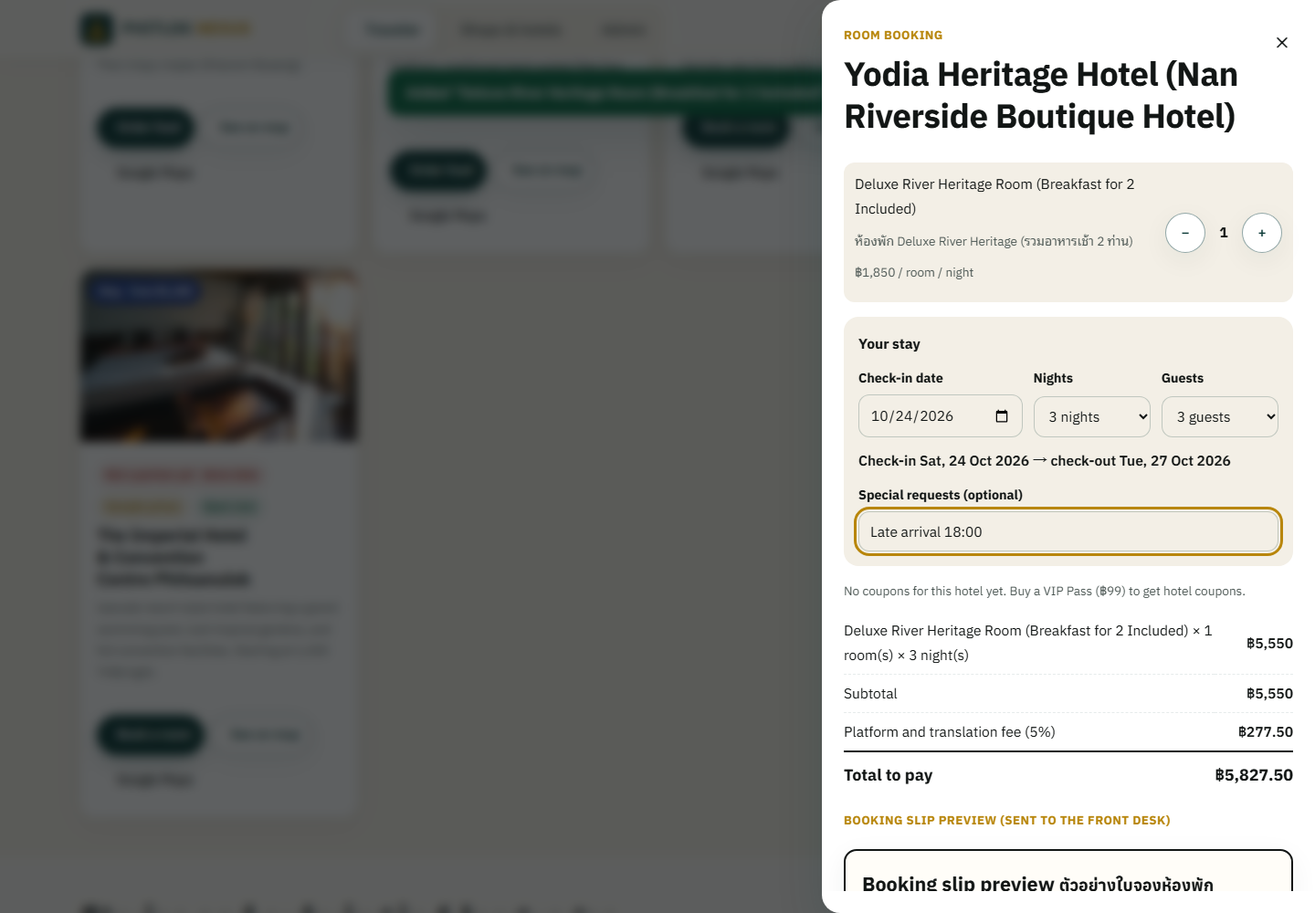
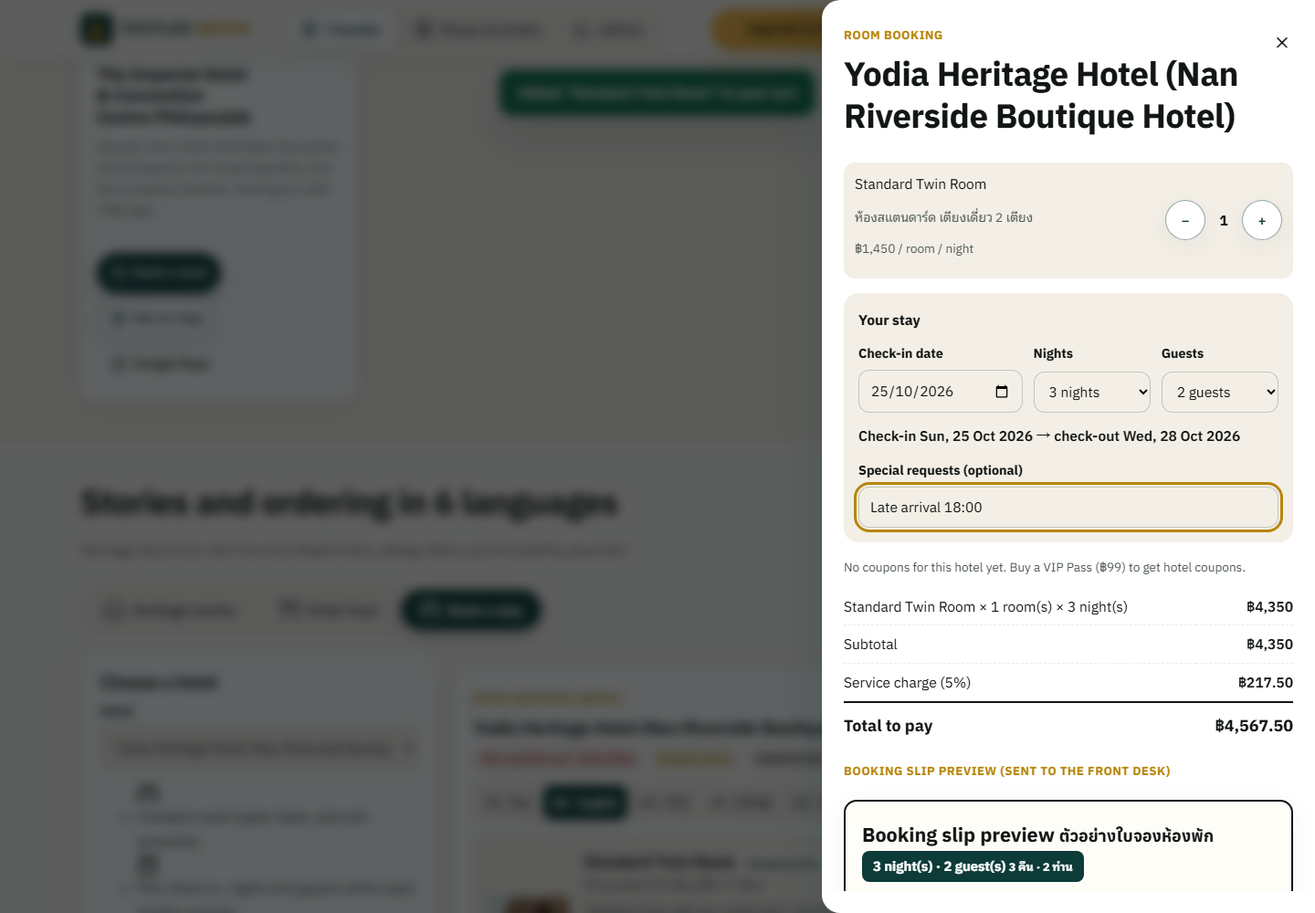
แยกแท็บ "สั่งอาหาร" กับ "จองที่พัก" ออกจากกันจริง
- ส่วน AI Lens มี 3 แท็บ: ฟังเรื่องเล่า / สั่งอาหาร / จองที่พัก
- แท็บสั่งอาหาร: รายการมีเฉพาะร้านอาหารและร้านของฝาก (สแกนเมนูได้เฉพาะร้าน)
- แท็บจองที่พัก: รายการมีเฉพาะโรงแรม ห้องเรียงจากถูกไปแพง กล่องผลลัพธ์แยก (#stay-result)
- เปิดจากแผนที่/รายการสถานที่: ร้านไปแท็บอาหาร โรงแรมไปแท็บที่พักเสมอ · ลิงก์ /app#lens-stay
- เทสต์ e2e และ i18n-e2e ชี้ห้องพักไปที่ #stay-result และใช้จำนวนผู้เข้าพักตามความจุห้อง

npm test 13/13, qa:e2e 31/31, i18n-e2e 18/18

diff --git a/public/js/i18n.js b/public/js/i18n.js
@@ -168,6 +168,14 @@ const K = {
   'room.a.balcony': ['ระเบียง', 'Balcony', '阳台', 'バルコニー', '발코니', 'Balcon'],
   'room.a.living': ['ห้องนั่งเล่นแยก', 'Separate living area', '独立客厅', 'リビング付き', '별도 거실', 'Salon séparé'],
   'room.a.minibar': ['มินิบาร์', 'Minibar', '迷你吧', 'ミニバー', '미니바', 'Minibar'],
+  'lens.tabC': ['จองที่พัก', 'Book a stay', '预订住宿', '宿を予約', '숙소 예약', 'Réserver un hôtel'],
+  'stay.pick': ['เลือกโรงแรมหรือที่พัก', 'Choose a hotel', '选择酒店', 'ホテルを選ぶ', '호텔 선택', 'Choisir un hôtel'],
+  'stay.selectLabel': ['โรงแรม / ที่พัก', 'Hotel', '酒店', 'ホテル', '호텔', 'Hôtel'],
+  'stay.p1': ['ดูประเภทห้อง เตียง ขนาด และสิ่งอำนวยความสะดวกของแต่ละห้อง', 'Compare room types: beds, size and amenities', '比较房型：床型、面积与设施', '客室タイプ、ベッド、広さ、設備を比べる', '객실 유형, 침대, 크기, 편의시설 비교', 'Comparez les chambres : lits, surface, équipements'],
+  'stay.p2': ['เลือกวันเช็คอิน จำนวนคืน และผู้เข้าพักตามความจุจริงของห้อง', 'Pick check-in, nights and guests within each room’s capacity', '选择入住日期、晚数及符合房间容量的人数', 'チェックイン日・泊数・人数（客室の定員内）を選ぶ', '체크인 날짜, 박수, 인원(객실 정원 내) 선택', 'Choisissez l’arrivée, les nuits et le nombre de personnes'],
+  'stay.p3': ['จ่ายด้วยพร้อมเพย์ แล้วรับใบจองสองภาษา (BK-)', 'Pay by PromptPay and get a two-language booking slip (BK-)', '用 PromptPay 支付，获得双语预订单（BK-）', 'PromptPayで支払い、2言語の予約票（BK-）を受け取る', 'PromptPay로 결제하고 2개 언어 예약증(BK-) 받기', 'Payez par PromptPay et recevez un bon bilingue (BK-)'],
+  'stay.emptyTitle': ['ห้องพักของโรงแรมที่เลือกจะแสดงที่นี่', 'Rooms of the chosen hotel appear here', '所选酒店的房型将显示在这里', '選んだホテルの客室がここに表示されます', '선택한 호텔의 객실이 여기에 표시됩니다', 'Les chambres de l’hôtel choisi s’affichent ici'],
+  'stay.emptyText': ['เลือกโรงแรมจากรายการด้านซ้าย', 'Choose a hotel from the list', '请从列表中选择酒店', 'リストからホテルを選んでください', '목록에서 호텔을 선택하세요', 'Choisissez un hôtel dans la liste'],
   'map.viewAria': ['เลือกมุมมองแผนที่', 'Map view', '地图视图', '地図の表示', '지도 보기', 'Vue de la carte'],
   'map.viewProvince': ['ทั้งจังหวัด', 'Province', '全府', '県全体', '주 전체', 'Province'],
   'map.viewCity': ['ตัวเมือง', 'City', '市区', '市街地', '시내', 'Ville'],
@@ -218,12 +226,12 @@ const K = {
   'dir.book': ['จองห้องพัก', 'Book a room', '预订客房', '客室を予約', '객실 예약', 'Réserver'],
 
   // ---------- lens (heritage + menu)
-  'lens.title': ['ฟังเรื่องเล่าและสั่งอาหาร 6 ภาษา', 'Stories and ordering in 6 languages', '6 种语言的讲解与点餐', '6言語の歴史ガイドと注文', '6개 언어 이야기와 주문', 'Récits et commandes en 6 langues'],
+  'lens.title': ['ฟังเรื่องเล่า สั่งอาหาร และจองที่พัก 6 ภาษา', 'Stories, food and stays in 6 languages', '6 种语言的讲解、点餐与住宿', '6言語で歴史ガイド・注文・宿予約', '6개 언어 이야기·주문·숙소 예약', 'Récits, repas et hôtels en 6 langues'],
   'lens.lead': ['ข้อมูลโบราณสถานจากกรมศิลปากร กรองอาหารที่แพ้ และจ่ายด้วยพร้อมเพย์', 'Heritage facts from the Fine Arts Department, allergy filters and PromptPay payment', '泰国艺术厅的古迹资料、过敏原筛选与 PromptPay 支付', 'タイ芸術局の史跡情報、アレルギー絞り込み、PromptPay決済', '태국 예술청 유적 정보, 알레르기 필터, PromptPay 결제', 'Patrimoine officiel, filtres allergènes et paiement PromptPay'],
   'lens.ai': ['AI ช่วยอ่านป้ายและเมนู', 'AI reads signs and menus', 'AI 读取牌匾与菜单', 'AIが看板とメニューを読み取り', 'AI가 안내판과 메뉴를 읽음', 'L’IA lit panneaux et menus'],
   'lens.tabs': ['โหมดการใช้งาน', 'Modes', '模式', 'モード', '모드', 'Modes'],
   'lens.tabA': ['ฟังเรื่องเล่าโบราณสถาน', 'Heritage stories', '古迹讲解', '史跡の音声ガイド', '유적 이야기', 'Récits du patrimoine'],
-  'lens.tabB': ['สั่งอาหารและจองที่พัก', 'Food & stays', '点餐与住宿', '料理と宿', '음식과 숙소', 'Repas et hébergement'],
+  'lens.tabB': ['สั่งอาหาร', 'Order food', '点餐', '料理を注文', '음식 주문', 'Commander'],
   'lens.pick': ['เลือกโบราณสถาน', 'Choose a heritage site', '选择古迹', '史跡を選ぶ', '유적 선택', 'Choisir un site'],
   'preset.wat-yai': ['วัดพระศรีรัตนมหาธาตุวรมหาวิหาร (วัดใหญ่) · พ.ศ. 1900', 'Wat Phra Si Rattana Mahathat (Wat Yai) · 1357', '帕西拉达纳玛哈泰寺（大寺）· 1357 年', 'ワット・プラシーラッタナーマハータート（ワット・ヤイ）· 1357年', '왓 프라시랏따나마하탓 (왓 야이) · 1357년', 'Wat Phra Si Rattana Mahathat (Wat Yai) · 1357'],
   'preset.chan-palace': ['โบราณสถานพระราชวังจันทน์ (สมเด็จพระนเรศวรฯ)', 'Chan Palace ruins (King Naresuan)', '詹宫遗址（纳黎萱大帝）', 'チャン王宮跡（ナレースワン大王）', '짠 왕궁 유적 (나레쑤언 대왕)', 'Ruines du palais Chan (roi Naresuan)'],
@@ -241,12 +249,12 @@ const K = {
   'pipe.menu': ['สร้างเมนูดิจิทัล 6 ภาษา', 'Building the menu in 6 languages', '生成 6 种语言菜单', '6言語メニューを作成', '6개 언어 메뉴 만들기', 'Création du menu en 6 langues'],
   'lens.emptyTitle': ['เลือกโบราณสถานด้านซ้ายเพื่อฟังเรื่องเล่า', 'Choose a site on the left to hear its story', '在左侧选择古迹收听故事', '左の史跡を選んで物語を聞く', '왼쪽에서 유적을 골라 이야기를 들어 보세요', 'Choisissez un site à gauche pour l’écouter'],
   'lens.emptyText': ['ฟังได้ 6 ภาษา: ไทย อังกฤษ จีน ญี่ปุ่น เกาหลี ฝรั่งเศส · ส่องป้ายแล้วรับคูปองส่วนลด 15%', 'Listen in Thai, English, Chinese, Japanese, Korean or French · scan a sign to earn a 15% coupon', '可用泰、英、中、日、韩、法 6 种语言收听 · 扫描牌匾获得 85 折优惠券', 'タイ語・英語・中国語・日本語・韓国語・フランス語に対応 · 看板を読み取ると15%クーポン', '태국어·영어·중국어·일본어·한국어·프랑스어 지원 · 안내판을 스캔하면 15% 쿠폰', 'En thaï, anglais, chinois, japonais, coréen ou français · scannez un panneau pour un bon de 15 %'],
-  'menu.pick': ['เลือกร้านอาหารหรือที่พัก', 'Choose a restaurant or hotel', '选择餐厅或酒店', '飲食店かホテルを選ぶ', '식당 또는 호텔 선택', 'Choisir un restaurant ou un hôtel'],
+  'menu.pick': ['เลือกร้านอาหารหรือร้านของฝาก', 'Choose a restaurant or souvenir shop', '选择餐厅或特产店', '飲食店かお土産店を選ぶ', '식당 또는 기념품점 선택', 'Choisir un restaurant ou une boutique'],
   'menu.presetBtn': ['ลองดูเมนูร้านก๋วยเตี๋ยวห้อยขา', 'Try the Hoi Kha noodle menu', '试看垂腿船面的菜单', 'ホイカー麺のメニューを見る', '호이카 국수 메뉴 보기', 'Essayer le menu Hoi Kha'],
   'menu.or': ['หรือเลือกจากรายการ', 'or pick from the list', '或从列表中选择', 'またはリストから選ぶ', '또는 목록에서 선택', 'ou choisissez dans la liste'],
-  'menu.selectLabel': ['ร้านอาหารหรือโรงแรม', 'Restaurant or hotel', '餐厅或酒店', '飲食店またはホテル', '식당 또는 호텔', 'Restaurant ou hôtel'],
+  'menu.selectLabel': ['ร้านอาหาร / ร้านของฝาก', 'Restaurant / souvenir shop', '餐厅 / 特产店', '飲食店・お土産店', '식당 / 기념품점', 'Restaurant / boutique'],
   'menu.scan': ['สแกนเมนูกระดาษเพื่อแปล 6 ภาษา', 'Scan a paper menu to translate it', '扫描纸质菜单进行翻译', '紙のメニューを読み取って翻訳', '종이 메뉴를 스캔해 번역', 'Scanner un menu papier pour le traduire'],
-  'menu.emptyTitle': ['เมนู 6 ภาษาและการจองห้องพักจะแสดงที่นี่', 'The menu and room booking appear here', '菜单与订房信息将显示在这里', 'ここにメニューと客室予約が表示されます', '여기에 메뉴와 객실 예약이 표시됩니다', 'Le menu et la réservation s’affichent ici'],
+  'menu.emptyTitle': ['เมนู 6 ภาษาจะแสดงที่นี่', 'The 6-language menu appears here', '6 种语言的菜单将显示在这里', 'ここに6言語メニューが表示されます', '여기에 6개 언어 메뉴가 표시됩니다', 'Le menu en 6 langues s’affiche ici'],
   'menu.emptyText': ['กรองอาหารที่แพ้ จ่ายด้วยพร้อมเพย์ แล้วร้านได้รับใบสั่งภาษาไทยทันที', 'Filter allergens, pay with PromptPay, and the shop instantly gets a Thai order ticket', '筛选过敏原，用 PromptPay 支付，店家立即收到泰文订单', 'アレルギーを絞り込み、PromptPayで支払うと、お店にタイ語の注文票がすぐ届きます', '알레르기를 거르고 PromptPay로 결제하면 가게에 태국어 주문서가 바로 갑니다', 'Filtrez les allergènes, payez par PromptPay : le commerce reçoit aussitôt un ticket en thaï'],
 
   // ---------- lens results

diff --git a/public/js/lens.js b/public/js/lens.js
@@ -17,12 +17,15 @@ const ALLOWED = ['image/jpeg', 'image/png', 'image/webp'];
 
 let lastHeritage = null;
 let menuCtx = null;
+let stayCtx = null;
+const TABS = ['heritage', 'menu', 'stay'];
+const isStay = (m) => m.kind === 'hotel' || m.category === 'stay';
 let previewUrl = null;
 let isPaused = false;
 
 // ------------------------------------------------------------------ tabs
 export function selectTab(which, { focus = false } = {}) {
-  const tabs = [document.getElementById('tab-heritage'), document.getElementById('tab-menu')].filter(Boolean);
+  const tabs = TABS.map((id) => document.getElementById(`tab-${id}`)).filter(Boolean);
   tabs.forEach((t) => {
     const onTab = t.id === `tab-${which}`;
     t.setAttribute('aria-selected', String(onTab));
@@ -31,6 +34,11 @@ export function selectTab(which, { focus = false } = {}) {
     if (panel) panel.hidden = !onTab;
     if (onTab && focus) t.focus();
   });
+  // the stay tab opens on the hotel already chosen in its list
+  if (which === 'stay' && !document.querySelector('#stay-result .menu-list')) {
+    const sel = document.getElementById('stay-merchant');
+    if (sel?.value) openMerchantMenu(sel.value, { scroll: false });
+  }
 }
 
 function bindTabs() {
@@ -43,8 +51,9 @@ function bindTabs() {
   list.addEventListener('keydown', (e) => {
     if (!['ArrowLeft', 'ArrowRight', 'Home', 'End'].includes(e.key)) return;
     e.preventDefault();
-    const current = document.getElementById('tab-heritage').getAttribute('aria-selected') === 'true' ? 'heritage' : 'menu';
-    selectTab(current === 'heritage' ? 'menu' : 'heritage', { focus: true });
+    const current = TABS.findIndex((id) => document.getElementById(`tab-${id}`)?.getAttribute('aria-selected') === 'true');
+    const next = e.key === 'Home' ? 0 : e.key === 'End' ? TABS.length - 1 : (current + (e.key === 'ArrowRight' ? 1 : -1) + TABS.length) % TABS.length;
+    selectTab(TABS[next], { focus: true });
   });
 }
 
@@ -405,14 +414,13 @@ async function scanMenu(buildForm) {
   }
 }
 
-/** Show a merchant's published menu or hotel room packages (from map card or directory). */
+/** Show a shop's menu (food tab) or a hotel's rooms (stay tab) — never both in one place. */
 export function openMerchantMenu(merchantId, { scroll = true } = {}) {
   const merchant = state.data.merchants.find((m) => m.id === Number(merchantId) || m.slug === String(merchantId));
   if (!merchant) return;
+  if (isStay(merchant)) { openStay(merchant, scroll); return; }
   syncMenuSelect(merchant.id);
-  // hotel rooms read cheapest to most expensive
-  const items = state.data.menuItems.filter((i) => i.merchantId === merchant.id)
-    .sort((a, b) => (a.room && b.room ? a.priceSatang - b.priceSatang : 0));
+  const items = state.data.menuItems.filter((i) => i.merchantId === merchant.id);
   selectTab('menu');
   const prev = document.getElementById('menu-preview');
   const pipe = document.getElementById('menu-pipeline');
@@ -425,6 +433,31 @@ export function openMerchantMenu(merchantId, { scroll = true } = {}) {
     out.onclick = (e) => { if (e.target.closest('[data-try-preset]')) runMenuPreset(); };
   } else {
     menuCtx = renderDigitalMenu(out, { merchant, items, source: 'database', orderable: true });
+  }
+  if (scroll) document.getElementById('lens')?.scrollIntoView({ behavior: 'smooth', block: 'start' });
+}
+
+function openStay(hotel, scroll) {
+  const sel = document.getElementById('stay-merchant');
+  if (sel) sel.value = String(hotel.id);
+  if (document.getElementById('tab-stay')?.getAttribute('aria-selected') !== 'true') {
+    const tabs = TABS.map((id) => document.getElementById(`tab-${id}`)).filter(Boolean);
+    tabs.forEach((tb) => {
+      const on = tb.id === 'tab-stay';
+      tb.setAttribute('aria-selected', String(on));
+      tb.tabIndex = on ? 0 : -1;
+      const panel = document.getElementById(tb.getAttribute('aria-controls'));
+      if (panel) panel.hidden = !on;
+    });
+  }
+  // rooms read cheapest to most expensive
+  const rooms = state.data.menuItems.filter((i) => i.merchantId === hotel.id).sort((a, b) => a.priceSatang - b.priceSatang);
+  const out = document.getElementById('stay-result');
+  if (!rooms.length) {
+    out.innerHTML = `<div class="empty"><p class="empty__title">${esc(t('menu.noItems', { name: tr(hotel.name) }))}</p></div>`;
+    stayCtx = null;
+  } else {
+    stayCtx = renderDigitalMenu(out, { merchant: hotel, items: rooms, source: 'database', orderable: true });
   }
   if (scroll) document.getElementById('lens')?.scrollIntoView({ behavior: 'smooth', block: 'start' });
 }
@@ -449,6 +482,7 @@ export function initLens() {
   document.getElementById('menu-preset')?.addEventListener('click', runMenuPreset);
   // choosing a shop or hotel from the list shows its own menu or rooms right away
   document.getElementById('menu-merchant')?.addEventListener('change', (e) => openMerchantMenu(e.target.value, { scroll: false }));
+  document.getElementById('stay-merchant')?.addEventListener('change', (e) => openMerchantMenu(e.target.value, { scroll: false }));
   document.getElementById('menu-file')?.addEventListener('change', (e) => {
     const file = e.target.files[0];
     const err = validateFile(file);
@@ -474,8 +508,12 @@ export function initLens() {
     setWavePlaying(false);
     renderHeritage();
     if (menuCtx && document.querySelector('#menu-result .menu-list')) menuCtx.redraw();
+    if (stayCtx && document.querySelector('#stay-result .menu-list')) stayCtx.redraw();
   });
-  on('cart:changed', () => { if (menuCtx && document.querySelector('#menu-result .menu-list')) menuCtx.redraw(); });
+  on('cart:changed', () => {
+    if (menuCtx && document.querySelector('#menu-result .menu-list')) menuCtx.redraw();
+    if (stayCtx && document.querySelector('#stay-result .menu-list')) stayCtx.redraw();
+  });
   on('visitor:changed', () => renderHeritage());
   window.addEventListener('phitlok:vip-activated', () => renderHeritage());
   on('menu:open-preset', () => { runMenuPreset(); document.getElementById('lens')?.scrollIntoView({ behavior: 'smooth' }); });

diff --git a/public/app.html b/public/app.html
@@ -158,7 +158,7 @@
       <section class="section" id="lens" aria-labelledby="lens-title">
         <div class="container">
           <div class="section__head">
-            <h2 id="lens-title" data-i18n="lens.title">ฟังเรื่องเล่าและสั่งอาหาร 6 ภาษา</h2>
+            <h2 id="lens-title" data-i18n="lens.title">ฟังเรื่องเล่า สั่งอาหาร และจองที่พัก 6 ภาษา</h2>
             <p class="section__lead"><span data-i18n="lens.lead">ข้อมูลโบราณสถานจากกรมศิลปากร กรองอาหารที่แพ้ และจ่ายด้วยพร้อมเพย์</span> <span class="ai-status-badge" id="ai-badge" hidden></span></p>
           </div>
 
@@ -167,7 +167,10 @@
               <i data-lucide="headphones"></i> <span data-i18n="lens.tabA">ฟังเรื่องเล่าโบราณสถาน</span>
             </button>
             <button class="tab" role="tab" type="button" id="tab-menu" aria-controls="panel-menu" aria-selected="false" tabindex="-1">
-              <i data-lucide="utensils"></i> <span data-i18n="lens.tabB">สั่งอาหารและจองที่พัก</span>
+              <i data-lucide="utensils"></i> <span data-i18n="lens.tabB">สั่งอาหาร</span>
+            </button>
+            <button class="tab" role="tab" type="button" id="tab-stay" aria-controls="panel-stay" aria-selected="false" tabindex="-1">
+              <i data-lucide="bed-double"></i> <span data-i18n="lens.tabC">จองที่พัก</span>
             </button>
           </div>
 
@@ -220,7 +223,7 @@
           <div class="tabpanel" role="tabpanel" id="panel-menu" aria-labelledby="tab-menu" hidden>
             <div class="lens-grid">
               <div class="card lens-input">
-                <h3 data-i18n="menu.pick">เลือกร้านอาหารหรือที่พัก</h3>
+                <h3 data-i18n="menu.pick">เลือกร้านอาหารหรือร้านของฝาก</h3>
                 <div class="preset-list">
                   <button class="btn btn--preset" type="button" id="menu-preset">
                     <span class="preset-no">1</span><span data-i18n="menu.presetBtn">ลองดูเมนูร้านก๋วยเตี๋ยวห้อยขา</span>
@@ -228,7 +231,7 @@
                 </div>
                 <div class="divider"><span data-i18n="menu.or">หรือเลือกจากรายการ</span></div>
                 <div class="field">
-                  <label for="menu-merchant" data-i18n="menu.selectLabel">ร้านอาหารหรือโรงแรม</label>
+                  <label for="menu-merchant" data-i18n="menu.selectLabel">ร้านอาหาร / ร้านของฝาก</label>
                   <select id="menu-merchant"></select>
                 </div>
                 <label class="upload" for="menu-file">
@@ -248,8 +251,31 @@
               </div>
               <div class="card lens-output" id="menu-result" aria-live="polite">
                 <div class="empty">
-                  <p class="empty__title" data-i18n="menu.emptyTitle">เมนู 6 ภาษาและการจองห้องพักจะแสดงที่นี่</p>
+                  <p class="empty__title" data-i18n="menu.emptyTitle">เมนู 6 ภาษาจะแสดงที่นี่</p>
                   <p class="muted" data-i18n="menu.emptyText">กรองอาหารที่แพ้ จ่ายด้วยพร้อมเพย์ แล้วร้านได้รับใบสั่งภาษาไทยทันที</p>
+                </div>
+              </div>
+            </div>
+          </div>
+
+          <div class="tabpanel" role="tabpanel" id="panel-stay" aria-labelledby="tab-stay" hidden>
+            <div class="lens-grid">
+              <div class="card lens-input">
+                <h3 data-i18n="stay.pick">เลือกโรงแรมหรือที่พัก</h3>
+                <div class="field">
+                  <label for="stay-merchant" data-i18n="stay.selectLabel">โรงแรม / ที่พัก</label>
+                  <select id="stay-merchant"></select>
+                </div>
+                <ul class="stay-points">
+                  <li><i data-lucide="bed-double"></i><span data-i18n="stay.p1">ดูประเภทห้อง เตียง ขนาด และสิ่งอำนวยความสะดวกของแต่ละห้อง</span></li>
+                  <li><i data-lucide="calendar-days"></i><span data-i18n="stay.p2">เลือกวันเช็คอิน จำนวนคืน และผู้เข้าพักตามความจุจริงของห้อง</span></li>
+                  <li><i data-lucide="qr-code"></i><span data-i18n="stay.p3">จ่ายด้วยพร้อมเพย์ แล้วรับใบจองสองภาษา (BK-)</span></li>
+                </ul>
+              </div>
+              <div class="card lens-output" id="stay-result" aria-live="polite">
+                <div class="empty">
+                  <p class="empty__title" data-i18n="stay.emptyTitle">ห้องพักของโรงแรมที่เลือกจะแสดงที่นี่</p>
+                  <p class="muted" data-i18n="stay.emptyText">เลือกโรงแรมจากรายการด้านซ้าย</p>
                 </div>
               </div>
             </div>

diff --git a/public/app.js b/public/app.js
@@ -65,12 +65,17 @@ function renderStatic() {
   populateMerchantSelect();
 }
 
+// Food shops and hotels live in separate tabs, so each list only ever holds its own kind.
 function populateMenuMerchantSelect() {
-  const sel = document.getElementById('menu-merchant');
-  if (!sel) return;
-  const current = sel.value;
-  sel.innerHTML = state.data.merchants.map((m) => `<option value="${m.id}">${esc(tr(m.name))}</option>`).join('');
-  if (current) sel.value = current;
+  const fill = (id, keep) => {
+    const sel = document.getElementById(id);
+    if (!sel) return;
+    const current = sel.value;
+    sel.innerHTML = state.data.merchants.filter(keep).map((m) => `<option value="${m.id}">${esc(tr(m.name))}</option>`).join('');
+    if (current && [...sel.options].some((o) => o.value === current)) sel.value = current;
+  };
+  fill('menu-merchant', (m) => merchantLayer(m) !== 'hotel');
+  fill('stay-merchant', (m) => merchantLayer(m) === 'hotel');
 }
 
 async function refreshHeroStats() {
@@ -88,6 +93,12 @@ function applyHash({ initial = false } = {}) {
   if (!hash) return;
   if (hash === 'merchant' || hash === 'admin' || hash === 'tourist') {
     setRole(hash, { skipDataLoad: initial && !state.data });
+    return;
+  }
+  if (hash === 'lens-stay') {
+    setRoleIfNeeded('tourist');
+    selectTab('stay');
+    document.getElementById('lens')?.scrollIntoView({ block: 'start' });
     return;
   }
   if (hash === 'lens-menu') {

diff --git a/public/styles.css b/public/styles.css
@@ -1662,3 +1662,6 @@ input[type="file"] { padding: 10px; font-size: .9rem; }
 .room-facts { list-style: none; margin: 4px 0 6px; padding: 0; display: flex; flex-wrap: wrap; gap: 4px 14px; font-size: .9rem; }
 .room-facts li { display: inline-flex; align-items: center; gap: 5px; }
 .room-facts svg { width: 16px; height: 16px; color: var(--emerald); flex: none; }
+.stay-points { list-style: none; margin: 16px 0 0; padding: 0; display: grid; gap: 12px; }
+.stay-points li { display: grid; grid-template-columns: 22px 1fr; gap: 10px; align-items: start; font-size: .95rem; }
+.stay-points svg { width: 22px; height: 22px; color: var(--emerald); }
